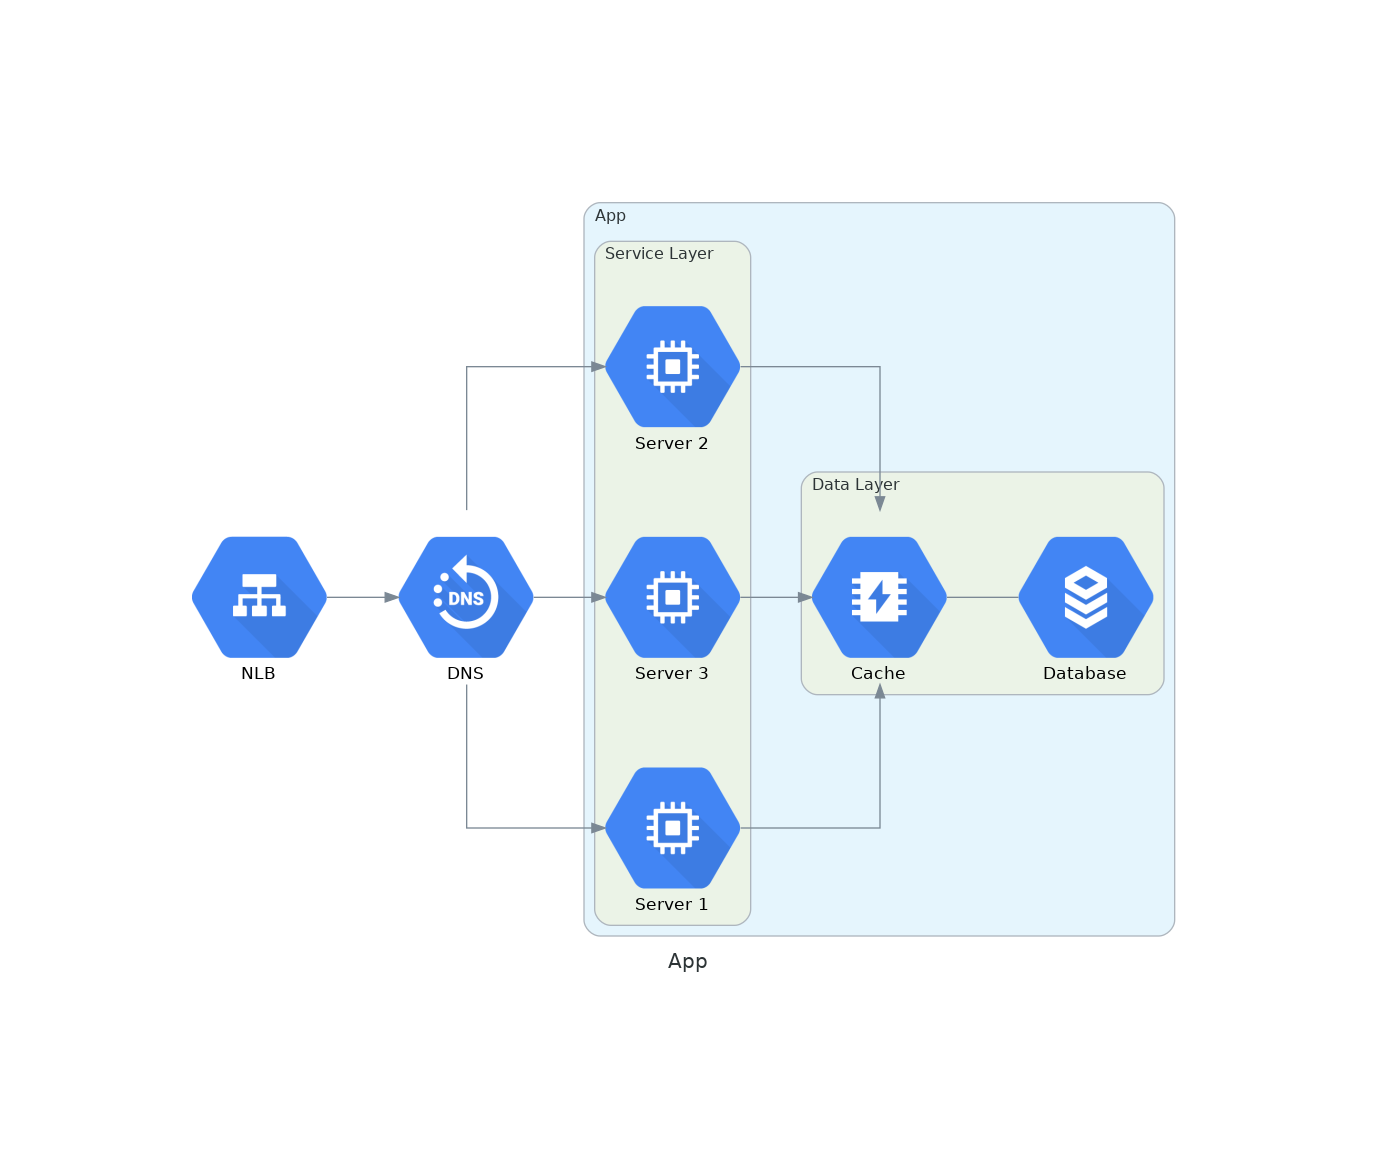
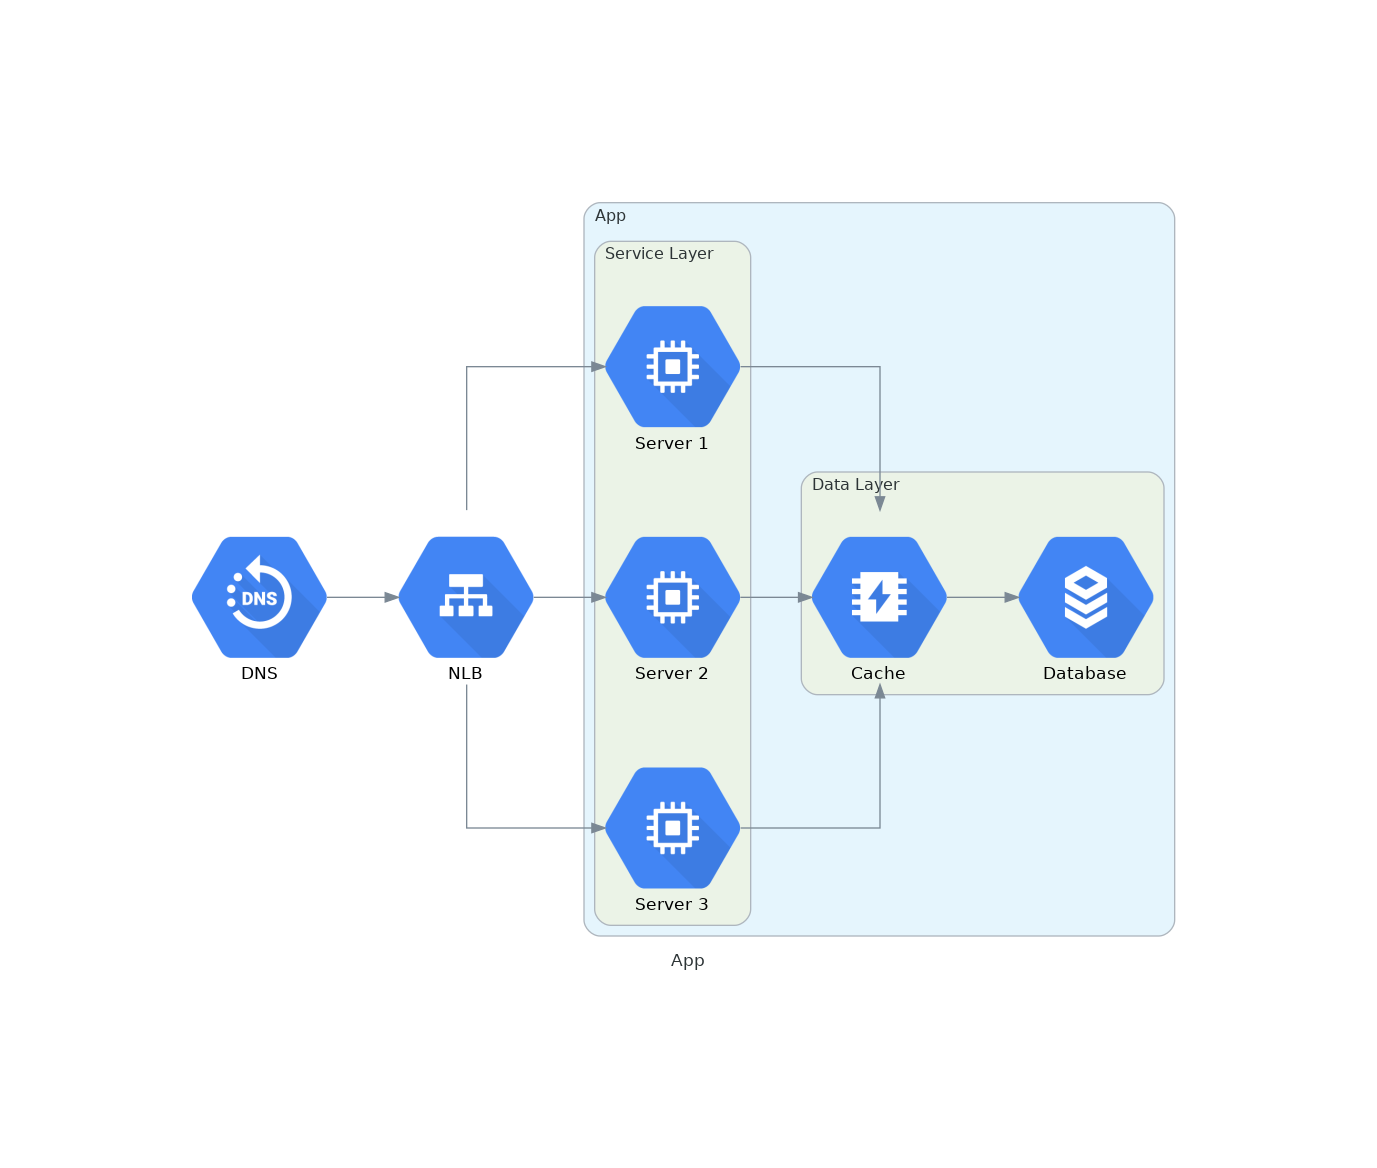
fix example

diff --git a/_examples/app/main.go b/_examples/app/main.go
@@ -26,12 +26,12 @@ func main() {
 			gcp.Compute.ComputeEngine(diagram.NodeLabel("Server 2")),
 			gcp.Compute.ComputeEngine(diagram.NodeLabel("Server 3")),
 		).
-		ConnectAllFrom(dns.ID(), diagram.Forward()).
+		ConnectAllFrom(lb.ID(), diagram.Forward()).
 		ConnectAllTo(cache.ID(), diagram.Forward())
 
 	dc.NewGroup("data").Label("Data Layer").Add(cache, db).Connect(cache, db)
 
-	d.Connect(lb, dns, diagram.Forward()).Group(dc)
+	d.Connect(dns, lb, diagram.Forward()).Group(dc)
 
 	if err := d.Render(); err != nil {
 		log.Fatal(err)

diff --git a/README.md b/README.md
@@ -27,12 +27,12 @@ dc.NewGroup("services").
         gcp.Compute.ComputeEngine(diagram.NodeLabel("Server 2")),
         gcp.Compute.ComputeEngine(diagram.NodeLabel("Server 3")),
     ).
-    ConnectAllFrom(dns.ID(), diagram.Forward()).
+    ConnectAllFrom(lb.ID(), diagram.Forward()).
     ConnectAllTo(cache.ID(), diagram.Forward())
 
 dc.NewGroup("data").Label("Data Layer").Add(cache, db).Connect(cache, db)
 
-d.Connect(lb, dns, diagram.Forward()).Group(dc)
+d.Connect(dns, lb, diagram.Forward()).Group(dc)
 
 if err := d.Render(); err != nil {
     log.Fatal(err)
